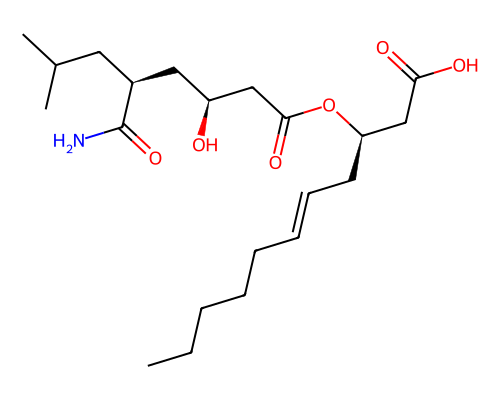
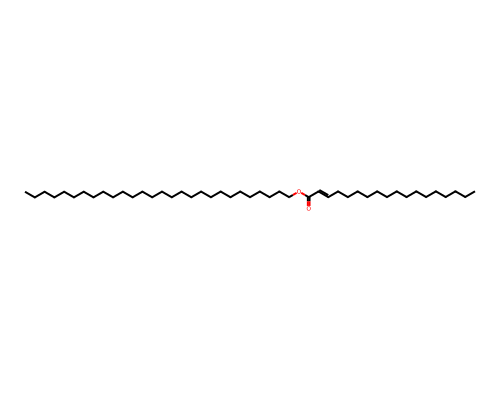
feat: add NPGPT-rl README, fix GP-MoLFormer tokenizer, update molecule examples
- Add comprehensive README.md to src/NPGPT-rl/ with:
  algorithm description (REINFORCE + baseline + KL regularization),
  multi-objective reward formulas and weight table,
  usage instructions for train_rl.py / sweep_checkpoints.py / compare_models.py,
  ASCII architecture diagram, dependency list, and paper references
  (Thomas et al. JCIM 2025, Bou et al. JCIM 2024, Sakano et al. 2025)

- Fix GP-MoLFormer tokenizer loading in make_molecule.py:
  GP-MoLFormer (ibm-research/GP-MoLFormer-Uniq) has a custom config
  unsupported by AutoTokenizer; load tokenizer separately from
  ibm-research/MoLFormer-XL-both-10pct

- Fix empty prompt crash for GP-MoLFormer unconditional generation:
  start with BOS token when prompt is empty to avoid 0-length input error

- Update README molecule generation examples:
  add NPComposer pathway-conditioned examples
  (Alkaloids, Amino acids and Peptides, Fatty acids, Terpenoids)

- Add REINFORCE-ING CLMs paper citation (Thomas et al. 2025) to
  README References and NPGPT-RL model description section

diff --git a/scripts/make_molecule.py b/scripts/make_molecule.py
@@ -73,16 +73,21 @@ def generate_npgpt(model, tokenizer, temperature=1.5, top_p=1.0):
         return tokenizer.decode(out[0], skip_special_tokens=True).strip()
 
 
-def load_hf_model(ckpt_path):
+GPMOLFORMER_TOKENIZER = "ibm-research/MoLFormer-XL-both-10pct"
+
+
+def load_hf_model(ckpt_path, tokenizer_name=None):
     """Load HuggingFace causal LM.
 
     Input:
         ckpt_path: model name or path.
+        tokenizer_name: tokenizer name/path (defaults to ckpt_path).
     Output:
         (model, tokenizer)
     """
     from transformers import AutoModelForCausalLM, AutoTokenizer
-    tokenizer = AutoTokenizer.from_pretrained(ckpt_path, trust_remote_code=True)
+    tok_path = tokenizer_name or ckpt_path
+    tokenizer = AutoTokenizer.from_pretrained(tok_path, trust_remote_code=True)
     model = AutoModelForCausalLM.from_pretrained(
         ckpt_path, trust_remote_code=True, torch_dtype=torch.float32
     ).eval()
@@ -100,7 +105,14 @@ def generate_hf(model, tokenizer, prompt="", temperature=1.0, top_p=0.95, max_ne
         SMILES string.
     """
     device = next(model.parameters()).device
-    x = tokenizer(prompt, return_tensors="pt", add_special_tokens=False)
+    if prompt:
+        x = tokenizer(prompt, return_tensors="pt", add_special_tokens=False)
+    else:
+        # Empty prompt: start with BOS token
+        bos_id = tokenizer.bos_token_id
+        if bos_id is None:
+            bos_id = tokenizer.cls_token_id or 0
+        x = {"input_ids": torch.tensor([[bos_id]])}
     prompt_len = x["input_ids"].shape[1]
     x = {k: v.to(device) for k, v in x.items()}
 
@@ -257,7 +269,7 @@ def main():
     elif args.model == "gpmolformer":
         temp = args.temperature if args.temperature is not None else 1.0
         print(f"Loading GP-MoLFormer: {args.gpmolformer_ckpt}")
-        model, tok = load_hf_model(args.gpmolformer_ckpt)
+        model, tok = load_hf_model(args.gpmolformer_ckpt, tokenizer_name=GPMOLFORMER_TOKENIZER)
         if torch.cuda.is_available():
             model = model.to("cuda")
         gen_fn = lambda: generate_hf(model, tok, prompt="", temperature=temp)

diff --git a/README.md b/README.md
@@ -184,11 +184,18 @@ Generate a single valid molecule with RDKit visualization:
 make molecule MODEL=npgpt
 make molecule MODEL=npgpt-rl
 make molecule MODEL=gpmolformer
-make molecule MODEL=npcomposer PROMPT="<np_classifier_pathway:Alkaloids><qed_bin:0.9<=qed<1><sa_bin:1<=sa<2>"
+
+# NPComposer with pathway conditioning
+make molecule MODEL=npcomposer PROMPT="<np_classifier_pathway:Alkaloids>"
+make molecule MODEL=npcomposer PROMPT="<np_classifier_pathway:Amino acids and Peptides>"
+make molecule MODEL=npcomposer PROMPT="<np_classifier_pathway:Fatty acids>"
+make molecule MODEL=npcomposer PROMPT="<np_classifier_pathway:Terpenoids>"
 
 # Direct script
 python scripts/make_molecule.py npgpt-rl --temperature 1.5
-python scripts/make_molecule.py npcomposer --prompt "<np_classifier_pathway:Terpenoids>"
+python scripts/make_molecule.py npcomposer --prompt "<np_classifier_pathway:Alkaloids>"
+python scripts/make_molecule.py npcomposer --prompt "<np_classifier_pathway:Amino acids and Peptides>"
+python scripts/make_molecule.py npcomposer --prompt "<np_classifier_pathway:Fatty acids>"
 ```
 
 The script retries until a valid SMILES is produced (up to 50 attempts), saves a PNG image, displays it (iTerm2 inline / Kitty / sixel / macOS Preview), and prints the canonical SMILES.
